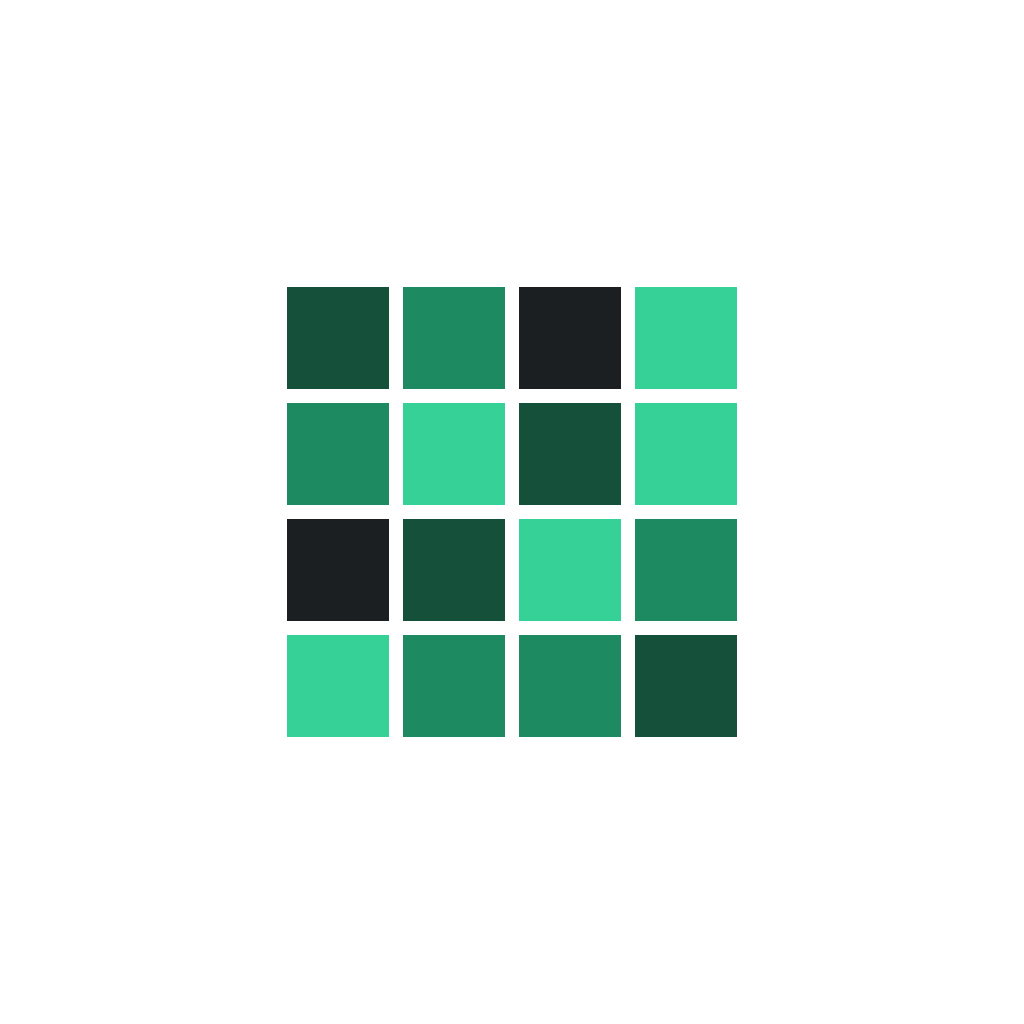
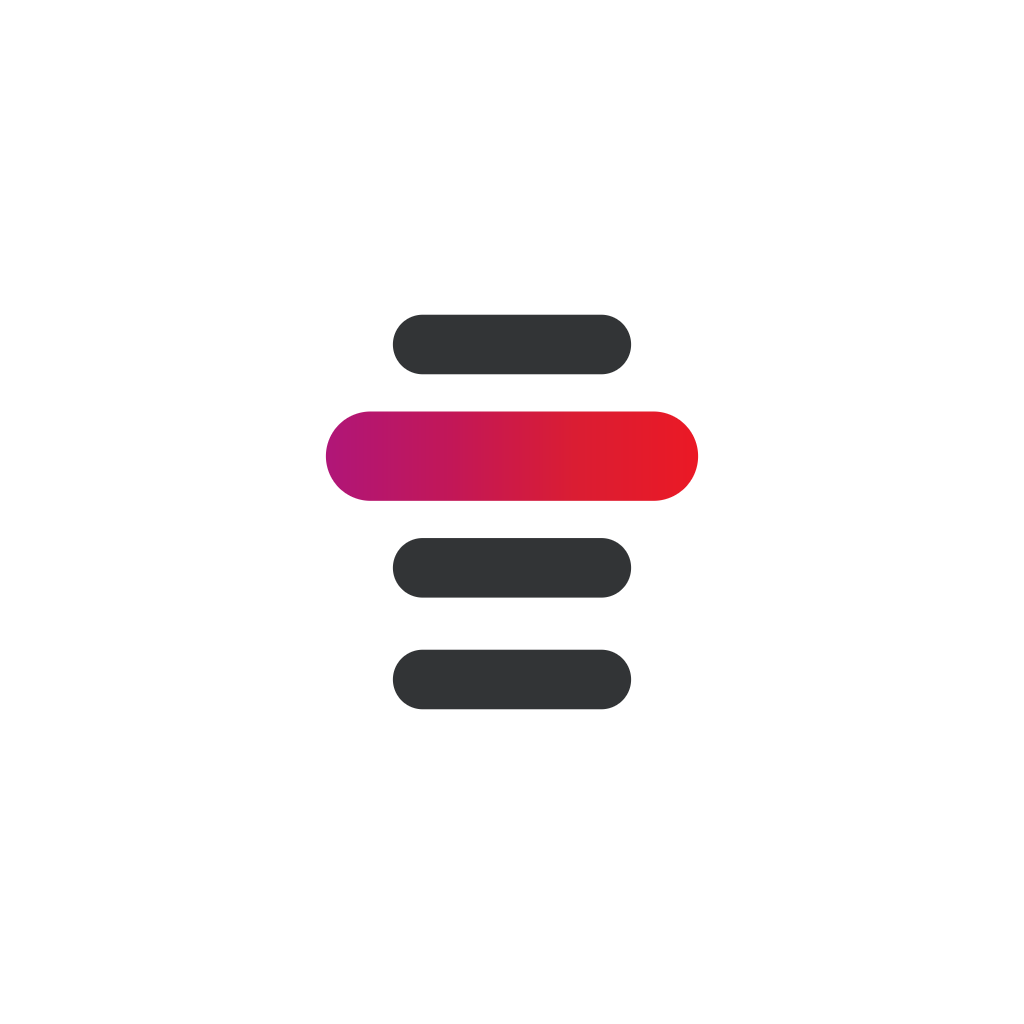
Une colonne de creneaux en Carmillon, et l'app s'appelle TGV Max
L'ancienne icone peignait une grille 4x4 avec `SCALE`, c'est-a-dire l'echelle
de disponibilite employee en decoration : exactement la faute que ce projet
s'interdit partout ailleurs, commise sur sa propre icone. Une icone est de
l'habillage, donc du Carmillon.

Le motif est une colonne de quatre creneaux dont un est ouvert — l'unite de
raisonnement reelle du produit, « les vendredis soir », et l'evenement qui le
justifie.

Il repare au passage la silhouette monochrome. Les icones themees d'Android
13+ ne lisent que l'alpha, et `android-icon-foreground.png` et
`android-icon-monochrome.png` etaient le meme fichier au bit pres, toutes
cases opaques : le rendu etait un pave uniforme ou la densite, c'est-a-dire
toute l'idee, disparaissait. Le creneau ouvert, lui, est plus large et plus
haut que les trois autres — la geometrie le distingue encore quand toute
couleur a disparu.

Deux corrections techniques dans le generateur. La zone sure d'Android n'est
que les 72 dp centraux d'un canevas de 108 : le motif occupant 55 % du carre
de dessin, un facteur de 0,727 le pose sur 40 % du canevas, donc 60 % de ce
qu'on voit. Et les bords sont desormais anti-crenelees par distance signee au
rectangle arrondi — l'alpha du PNG ne servait jusqu'ici qu'a dire « dedans »
ou « dehors », ce qui laissait des escaliers sur les coins arrondis.

Le nom affiche sous l'icone devient « TGV Max ». Seul `app.json` change :
« TGVmax » reste ecrit tel quel partout ou il designe l'abonnement SNCF et non
[…]

Changed region(s): [[0.2812, 0.2812, 0.7188, 0.7188]]

diff --git a/scripts/gen-icons.ts b/scripts/gen-icons.ts
@@ -1,9 +1,25 @@
 /**
- * Genere les icones PNG de la PWA.
+ * Genere les icones de l'application.
  *
- * Le motif est la grille de disponibilite du calendrier, pas un logo : c'est
- * l'identite du produit. Rien d'illustratif, aucune dependance graphique — le
- * PNG est encode a la main avec `node:zlib`, seul module necessaire.
+ * Le motif est une colonne de creneaux dont un est ouvert — l'unite de
+ * raisonnement reelle du produit, « les vendredis soir », et l'evenement qui le
+ * justifie. Il remplace la grille 4x4 peinte avec l'echelle de disponibilite,
+ * qui commettait sur l'icone la faute que le projet s'interdit partout
+ * ailleurs : `avail` est la seule famille porteuse d'information, elle ne sert
+ * jamais de decoration. Une icone est de l'habillage, donc du Carmillon.
+ *
+ * Deux proprietes valent d'etre tenues :
+ *
+ * - **le sens tient dans la geometrie, pas dans la couleur.** Le creneau ouvert
+ *   est plus large et plus haut que les trois autres. C'est ce qui le sauve en
+ *   silhouette monochrome, la ou l'ancienne grille rendait un pave uniforme :
+ *   `foreground` et `monochrome` etaient le meme fichier au bit pres, toutes
+ *   cases opaques, et la densite — c'est-a-dire toute l'idee — disparaissait ;
+ * - **les bords sont anti-crenelees analytiquement.** Une distance signee au
+ *   rectangle arrondi donne la couverture exacte de chaque pixel, la ou un test
+ *   binaire laissait des escaliers sur les coins.
+ *
+ * Aucune dependance graphique : le PNG est encode a la main avec `node:zlib`.
  *
  *   node scripts/gen-icons.ts
  */
@@ -12,22 +28,50 @@ import { mkdirSync, writeFileSync } from 'node:fs';
 import { join, resolve } from 'node:path';
 
 type Rgb = [number, number, number];
+type Rgba = [number, number, number, number];
 
-const BACKGROUND: Rgb = [12, 14, 16];
-/** Les quatre paliers de l'echelle de disponibilite, du vide au sature. */
-const SCALE: Rgb[] = [
-  [27, 31, 34],
-  [20, 80, 58],
-  [30, 138, 97],
-  [53, 209, 151],
+/** Le fond sombre du chrome de l'application, et de `adaptiveIcon`. */
+const GROUND: Rgb = [14, 16, 18];
+
+/** Un creneau ferme : du blanc a 15 % pose sur le fond, aplati une fois. */
+const CLOSED: Rgb = [50, 52, 54];
+
+/** Le degrade Carmillon de SNCF Voyageurs, du framboise au vermillon. */
+const CARMILLON: Rgb[] = [
+  [176, 22, 120],
+  [194, 23, 88],
+  [218, 29, 51],
+  [235, 25, 37],
 ];
 
-/** Intensite de chaque case du motif 4x4, dans l'ordre de lecture. */
-const PATTERN = [
-  1, 2, 0, 3,
-  2, 3, 1, 3,
-  0, 1, 3, 2,
-  3, 2, 2, 1,
+/** La silhouette monochrome est lue en alpha, mais Android tinte du blanc. */
+const MONO: Rgb = [255, 255, 255];
+
+interface Slot {
+  /** Coordonnees du dessin, de 0 a 100, quelle que soit la taille rendue. */
+  x: number;
+  y: number;
+  w: number;
+  h: number;
+  open: boolean;
+}
+
+/**
+ * Quatre creneaux au pas regulier de 15, centres sur 50.
+ *
+ * Le creneau ouvert est le deuxieme : place en tete, il se lirait comme un
+ * titre ; place en dernier, comme un total. Au deuxieme rang, il est un element
+ * de la serie qui se distingue — ce qu'il est.
+ *
+ * L'ensemble tient entre 21,5 et 76,5, soit 55 % du dessin : la zone sure
+ * d'Android ne garantit que les 66 % centraux, et une icone adaptative doit y
+ * tenir quel que soit le masque du lanceur.
+ */
+const SLOTS: Slot[] = [
+  { x: 34, y: 23.5, w: 32, h: 8, open: false },
+  { x: 25, y: 36.5, w: 50, h: 12, open: true },
+  { x: 34, y: 53.5, w: 32, h: 8, open: false },
+  { x: 34, y: 68.5, w: 32, h: 8, open: false },
 ];
 
 function crc32(data: Buffer): number {
@@ -52,16 +96,15 @@ function chunk(type: string, body: Buffer): Buffer {
   return Buffer.concat([length, typed, crc]);
 }
 
-/** `null` = pixel transparent. */
-type Pixel = Rgb | null;
-
 /**
  * Encode une image en PNG sans perte.
  *
  * L'alpha n'est pas un agrement : l'icone adaptative Android superpose un
- * premier plan a un fond, et un premier plan opaque masquerait ce fond.
+ * premier plan a un fond, et un premier plan opaque masquerait ce fond. Il
+ * porte desormais une valeur continue et non plus un booleen — c'est lui qui
+ * transporte l'anti-crenelage des bords arrondis.
  */
-function encodePng(size: number, pixel: (x: number, y: number) => Pixel): Buffer {
+function encodePng(size: number, pixel: (x: number, y: number) => Rgba): Buffer {
   // Une ligne = un octet de filtre (0 = aucun) suivi des quadruplets RGBA.
   const raw = Buffer.alloc(size * (size * 4 + 1));
   let offset = 0;
@@ -69,11 +112,11 @@ function encodePng(size: number, pixel: (x: number, y: number) => Pixel): Buffer
   for (let y = 0; y < size; y++) {
     raw[offset++] = 0;
     for (let x = 0; x < size; x++) {
-      const color = pixel(x, y);
-      raw[offset++] = color ? color[0] : 0;
-      raw[offset++] = color ? color[1] : 0;
-      raw[offset++] = color ? color[2] : 0;
-      raw[offset++] = color ? 255 : 0;
+      const [r, g, b, a] = pixel(x, y);
+      raw[offset++] = r;
+      raw[offset++] = g;
+      raw[offset++] = b;
+      raw[offset++] = a;
     }
   }
 
@@ -94,30 +137,88 @@ function encodePng(size: number, pixel: (x: number, y: number) => Pixel): Buffer
   ]);
 }
 
-interface DrawOptions {
-  /** Part du cote laissee vide autour du motif. */
-  margin: number;
-  /** Fond opaque, ou transparent pour un premier plan adaptatif. */
-  background: Rgb | null;
+/** Le degrade echantillonne, `t` allant de 0 a 1 le long du creneau. */
+function ramp(t: number): Rgb {
+  const clamped = Math.min(1, Math.max(0, t)) * (CARMILLON.length - 1);
+  const index = Math.min(CARMILLON.length - 2, Math.floor(clamped));
+  const mix = clamped - index;
+  const from = CARMILLON[index]!;
+  const to = CARMILLON[index + 1]!;
+  return [
+    Math.round(from[0] + (to[0] - from[0]) * mix),
+    Math.round(from[1] + (to[1] - from[1]) * mix),
+    Math.round(from[2] + (to[2] - from[2]) * mix),
+  ];
 }
 
-function draw(size: number, { margin, background }: DrawOptions): Buffer {
-  const inset = Math.round(size * margin);
-  const inner = size - inset * 2;
-  const gap = Math.max(1, Math.round(inner * 0.03));
-  const cell = (inner - gap * 3) / 4;
+interface DrawOptions {
+  /** Part du cote occupee par le carre de dessin. Au-dela de 1, le motif deborde. */
+  scale: number;
+  /** Fond opaque, ou transparent pour un premier plan adaptatif. */
+  background: Rgb | null;
+  /** Silhouette d'une seule couleur, pour les icones themees d'Android 13+. */
+  mono?: boolean;
+}
 
-  return encodePng(size, (x, y) => {
-    const column = Math.floor((x - inset) / (cell + gap));
-    const row = Math.floor((y - inset) / (cell + gap));
-    if (column < 0 || column > 3 || row < 0 || row > 3) return background;
+function draw(size: number, { scale, background, mono = false }: DrawOptions): Buffer {
+  const box = size * scale;
+  const origin = (size - box) / 2;
+  const unit = box / 100;
 
-    // Rejette les pixels tombant dans la gouttiere entre deux cases.
-    const withinX = x - inset - column * (cell + gap);
-    const withinY = y - inset - row * (cell + gap);
-    if (withinX >= cell || withinY >= cell) return background;
+  // Geometrie precalculee en pixels : la boucle qui suit tourne un million de
+  // fois, elle n'a pas a refaire ces multiplications.
+  const shapes = SLOTS.map((slot) => {
+    const radius = (slot.h / 2) * unit;
+    return {
+      centerX: origin + (slot.x + slot.w / 2) * unit,
+      centerY: origin + (slot.y + slot.h / 2) * unit,
+      insetX: (slot.w / 2) * unit - radius,
+      insetY: (slot.h / 2) * unit - radius,
+      radius,
+      left: origin + slot.x * unit,
+      width: slot.w * unit,
+      open: slot.open,
+    };
+  });
 
-    return SCALE[PATTERN[row * 4 + column]!]!;
+  const empty: Rgba = background ? [...background, 255] : [0, 0, 0, 0];
+
+  return encodePng(size, (px, py) => {
+    // Le centre du pixel, pas son coin : c'est lui que la distance mesure.
+    const x = px + 0.5;
+    const y = py + 0.5;
+
+    for (const shape of shapes) {
+      const offsetX = Math.abs(x - shape.centerX) - shape.insetX;
+      const offsetY = Math.abs(y - shape.centerY) - shape.insetY;
+      // Rejet grossier avant la racine carree.
+      if (offsetX > shape.radius + 1 || offsetY > shape.radius + 1) continue;
+
+      // Distance signee au rectangle arrondi, puis couverture du pixel.
+      const distance =
+        Math.hypot(Math.max(offsetX, 0), Math.max(offsetY, 0)) - shape.radius;
+      const cover = Math.min(1, Math.max(0, 0.5 - distance));
+      if (cover <= 0) continue;
+
+      const ink: Rgb = mono
+        ? MONO
+        : shape.open
+          ? ramp((x - shape.left) / shape.width)
+          : CLOSED;
+
+      if (!background) return [...ink, Math.round(cover * 255)];
+
+      // Sur un fond opaque, la couverture se resout en melange : l'icone
+      // pleine n'a aucune raison de porter de la transparence.
+      return [
+        Math.round(background[0] + (ink[0] - background[0]) * cover),
+        Math.round(background[1] + (ink[1] - background[1]) * cover),
+        Math.round(background[2] + (ink[2] - background[2]) * cover),
+        255,
+      ];
+    }
+
+    return empty;
   });
 }
 
@@ -130,26 +231,36 @@ const ROOT = resolve(import.meta.dirname, '..');
 const assets = join(ROOT, 'mobile', 'assets');
 mkdirSync(assets, { recursive: true });
 
-// Icone pleine, fond compris. Marge generreuse pour rester lisible une fois
-// masquee en rond.
-writeFileSync(join(assets, 'icon.png'), draw(1024, { margin: 0.19, background: BACKGROUND }));
+// Icone pleine, fond compris : le motif occupe 63 % du cote, ce qui lui laisse
+// de quoi survivre a un masque rond.
+writeFileSync(join(assets, 'icon.png'), draw(1024, { scale: 1.15, background: GROUND }));
 
-// Premier plan de l'icone adaptative : transparent, et 28 % de marge pour que
-// le motif tienne dans la zone sure des 72 dp centraux quel que soit le masque
-// du lanceur — rond, carre arrondi ou goutte.
+/*
+ * Premier plan de l'icone adaptative.
+ *
+ * Android n'affiche que les 72 dp centraux d'un canevas de 108, soit 66 %. Le
+ * motif occupant 55 % du carre de dessin, un carre a 0,727 le pose sur 40 % du
+ * canevas — donc 60 % de ce qu'on voit, quel que soit le masque du lanceur.
+ */
 writeFileSync(
   join(assets, 'android-icon-foreground.png'),
-  draw(1024, { margin: 0.28, background: null }),
+  draw(1024, { scale: 0.727, background: null }),
 );
 
-// Le canal monochrome n'est lu qu'en silhouette par les icones themees
-// d'Android 13+ : le motif y suffit, les niveaux de l'echelle n'y survivent pas.
+/*
+ * La silhouette des icones themees d'Android 13+.
+ *
+ * Elle etait jusqu'ici le fichier de premier plan copie tel quel, et l'ancien
+ * motif y rendait un pave uniforme. La colonne, elle, porte son sens dans sa
+ * geometrie : le creneau ouvert reste plus large et plus haut que les trois
+ * autres quand toute couleur a disparu.
+ */
 writeFileSync(
   join(assets, 'android-icon-monochrome.png'),
-  draw(1024, { margin: 0.28, background: null }),
+  draw(1024, { scale: 0.727, background: null, mono: true }),
 );
 
-writeFileSync(join(assets, 'splash-icon.png'), draw(512, { margin: 0.24, background: null }));
-writeFileSync(join(assets, 'favicon.png'), draw(64, { margin: 0.12, background: BACKGROUND }));
+writeFileSync(join(assets, 'splash-icon.png'), draw(512, { scale: 0.95, background: null }));
+writeFileSync(join(assets, 'favicon.png'), draw(64, { scale: 1.35, background: GROUND }));
 
 console.log('icones Expo ecrites dans mobile/assets');

diff --git a/mobile/src/data/backup.ts b/mobile/src/data/backup.ts
@@ -139,7 +139,7 @@ export async function importFromFile(): Promise<
   if (!parsed) {
     return {
       kind: 'error',
-      message: 'Ce fichier n’est pas une sauvegarde TGVmax. Rien n’a été modifié.',
+      message: 'Ce fichier n’est pas une sauvegarde TGV Max. Rien n’a été modifié.',
     };
   }
 

diff --git a/CLAUDE.md b/CLAUDE.md
@@ -100,6 +100,25 @@ Corollaire de typage : `File.pickFileAsync` est surchargee trois fois, dont une
 signature depreciee qui rend un `File` nu. Un `ReturnType` retient la derniere
 surcharge et fait disparaitre le `canceled` — le type se nomme explicitement.
 
+**L'icone porte son sens dans sa geometrie, pas dans sa couleur.** L'ancienne
+grille 4x4 etait peinte avec `SCALE`, c'est-a-dire l'echelle de disponibilite
+employee en decoration : exactement la faute que ce projet s'interdit partout
+ailleurs, commise sur sa propre icone. Une icone est de l'habillage, donc du
+Carmillon. Et la silhouette monochrome d'Android 13+ ne lit que l'alpha :
+`android-icon-foreground.png` et `android-icon-monochrome.png` etaient le meme
+fichier au bit pres, toutes cases opaques, donc un pave uniforme ou la densite —
+toute l'idee — disparaissait. Le motif retenu est une colonne de quatre creneaux
+dont un est ouvert, **plus large et plus haut que les autres** : c'est ce qui le
+distingue encore quand toute couleur a disparu. Un motif dont le sens tient dans
+la couleur ne peut pas avoir de version monochrome.
+
+Deux mesures a garder : la zone sure d'Android n'est que les 72 dp centraux d'un
+canevas de 108, soit 66 %, et le motif occupant 55 % du carre de dessin, un
+facteur de 0,727 le pose sur 40 % du canevas — donc 60 % de ce qu'on voit. Et
+les bords sont anti-crenelees par distance signee au rectangle arrondi : un test
+binaire laissait des escaliers sur les coins, l'alpha du PNG n'ayant jamais
+servi qu'a dire « dedans » ou « dehors ».
+
 **Un degrade ne coute pas un APK, une police non plus — mais il faut le
 verifier.** `react-native-svg` est deja embarque et sait faire un
 `LinearGradient` : passer par `expo-linear-gradient` aurait demande un nouveau
